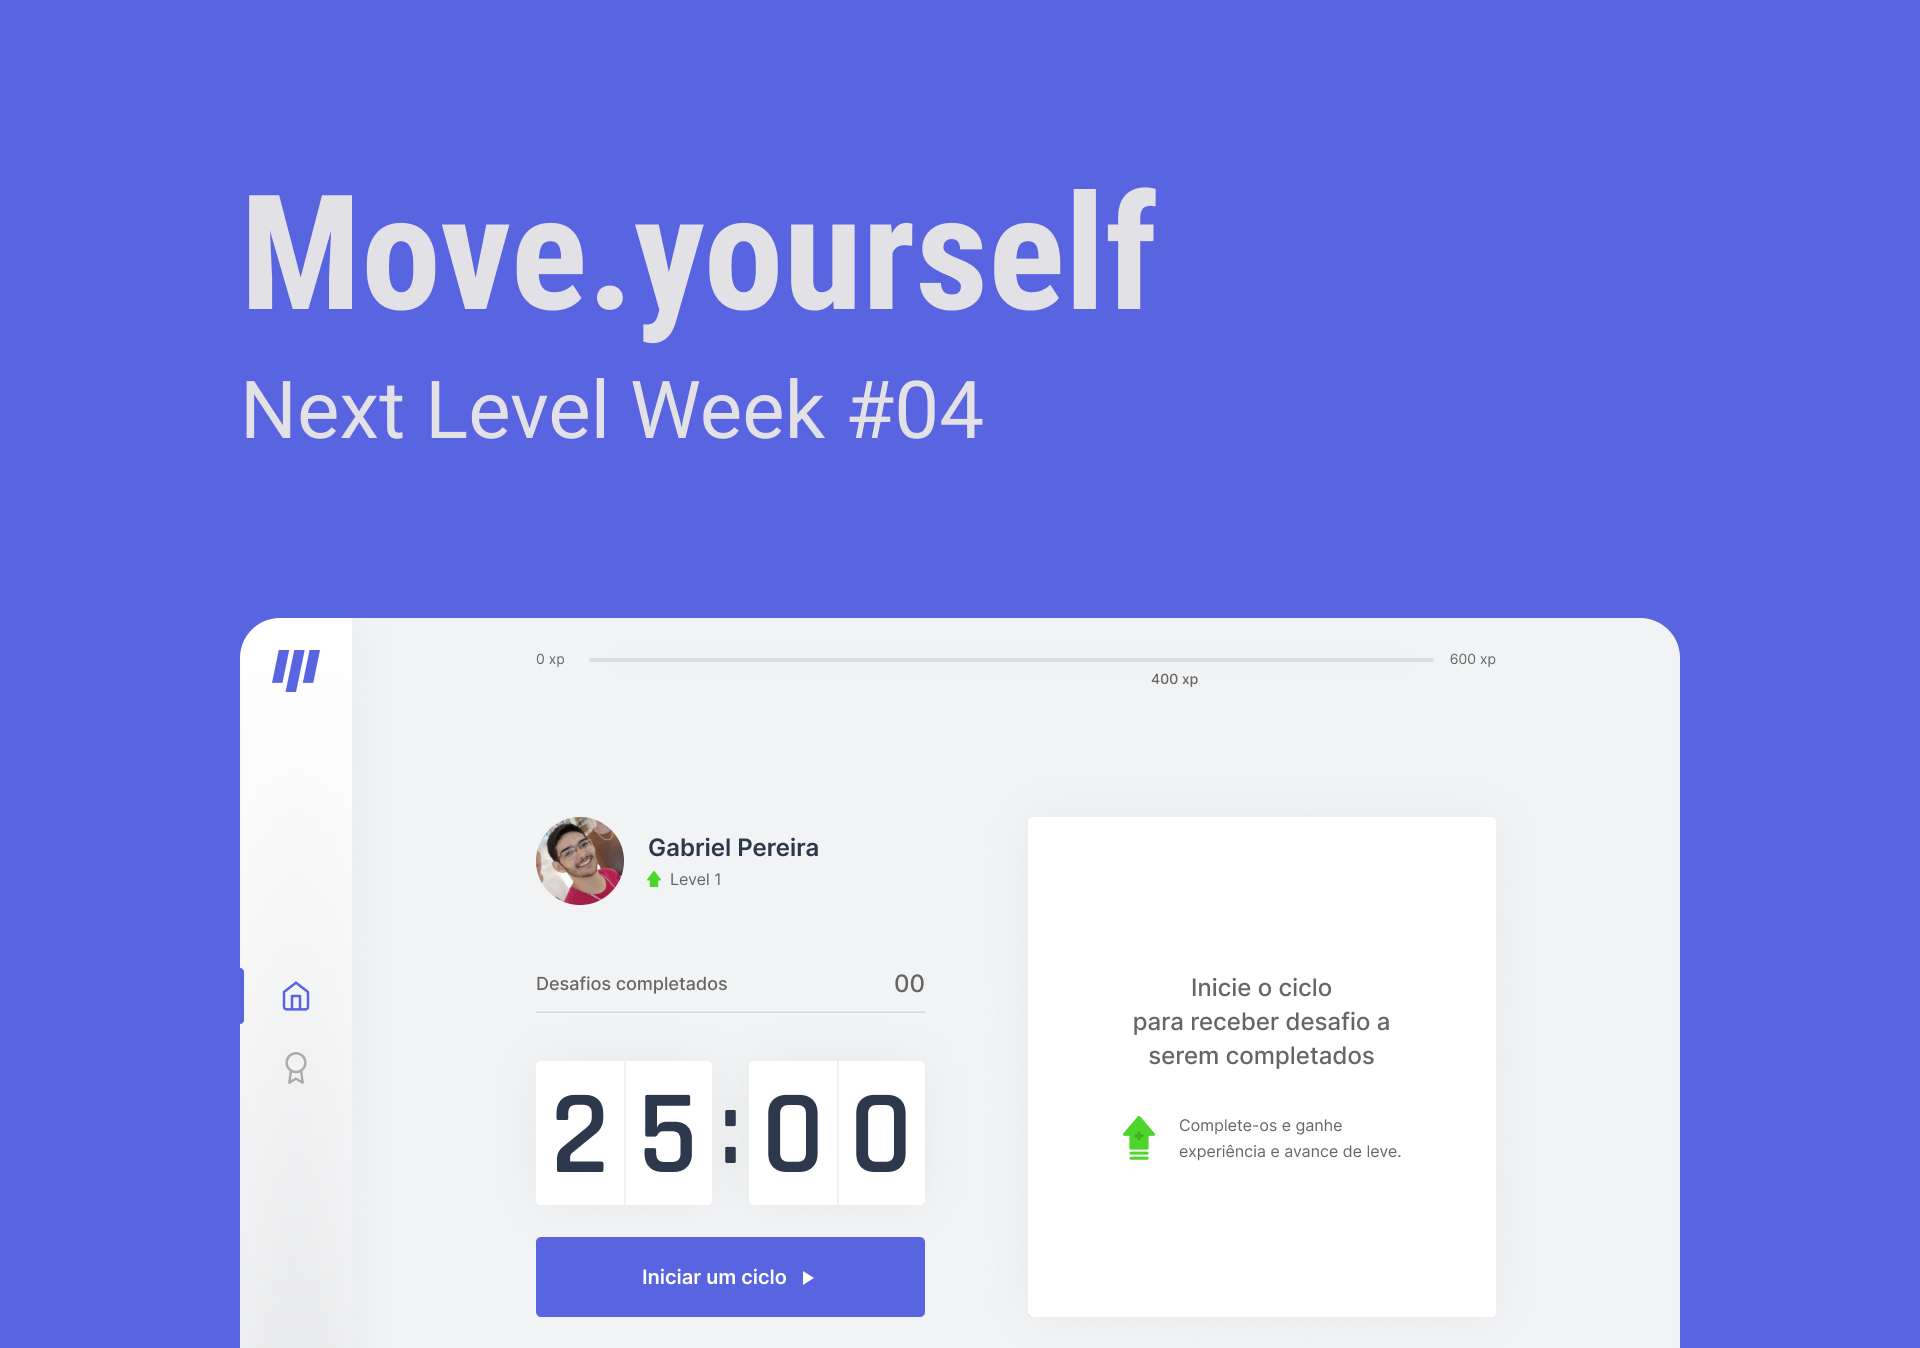
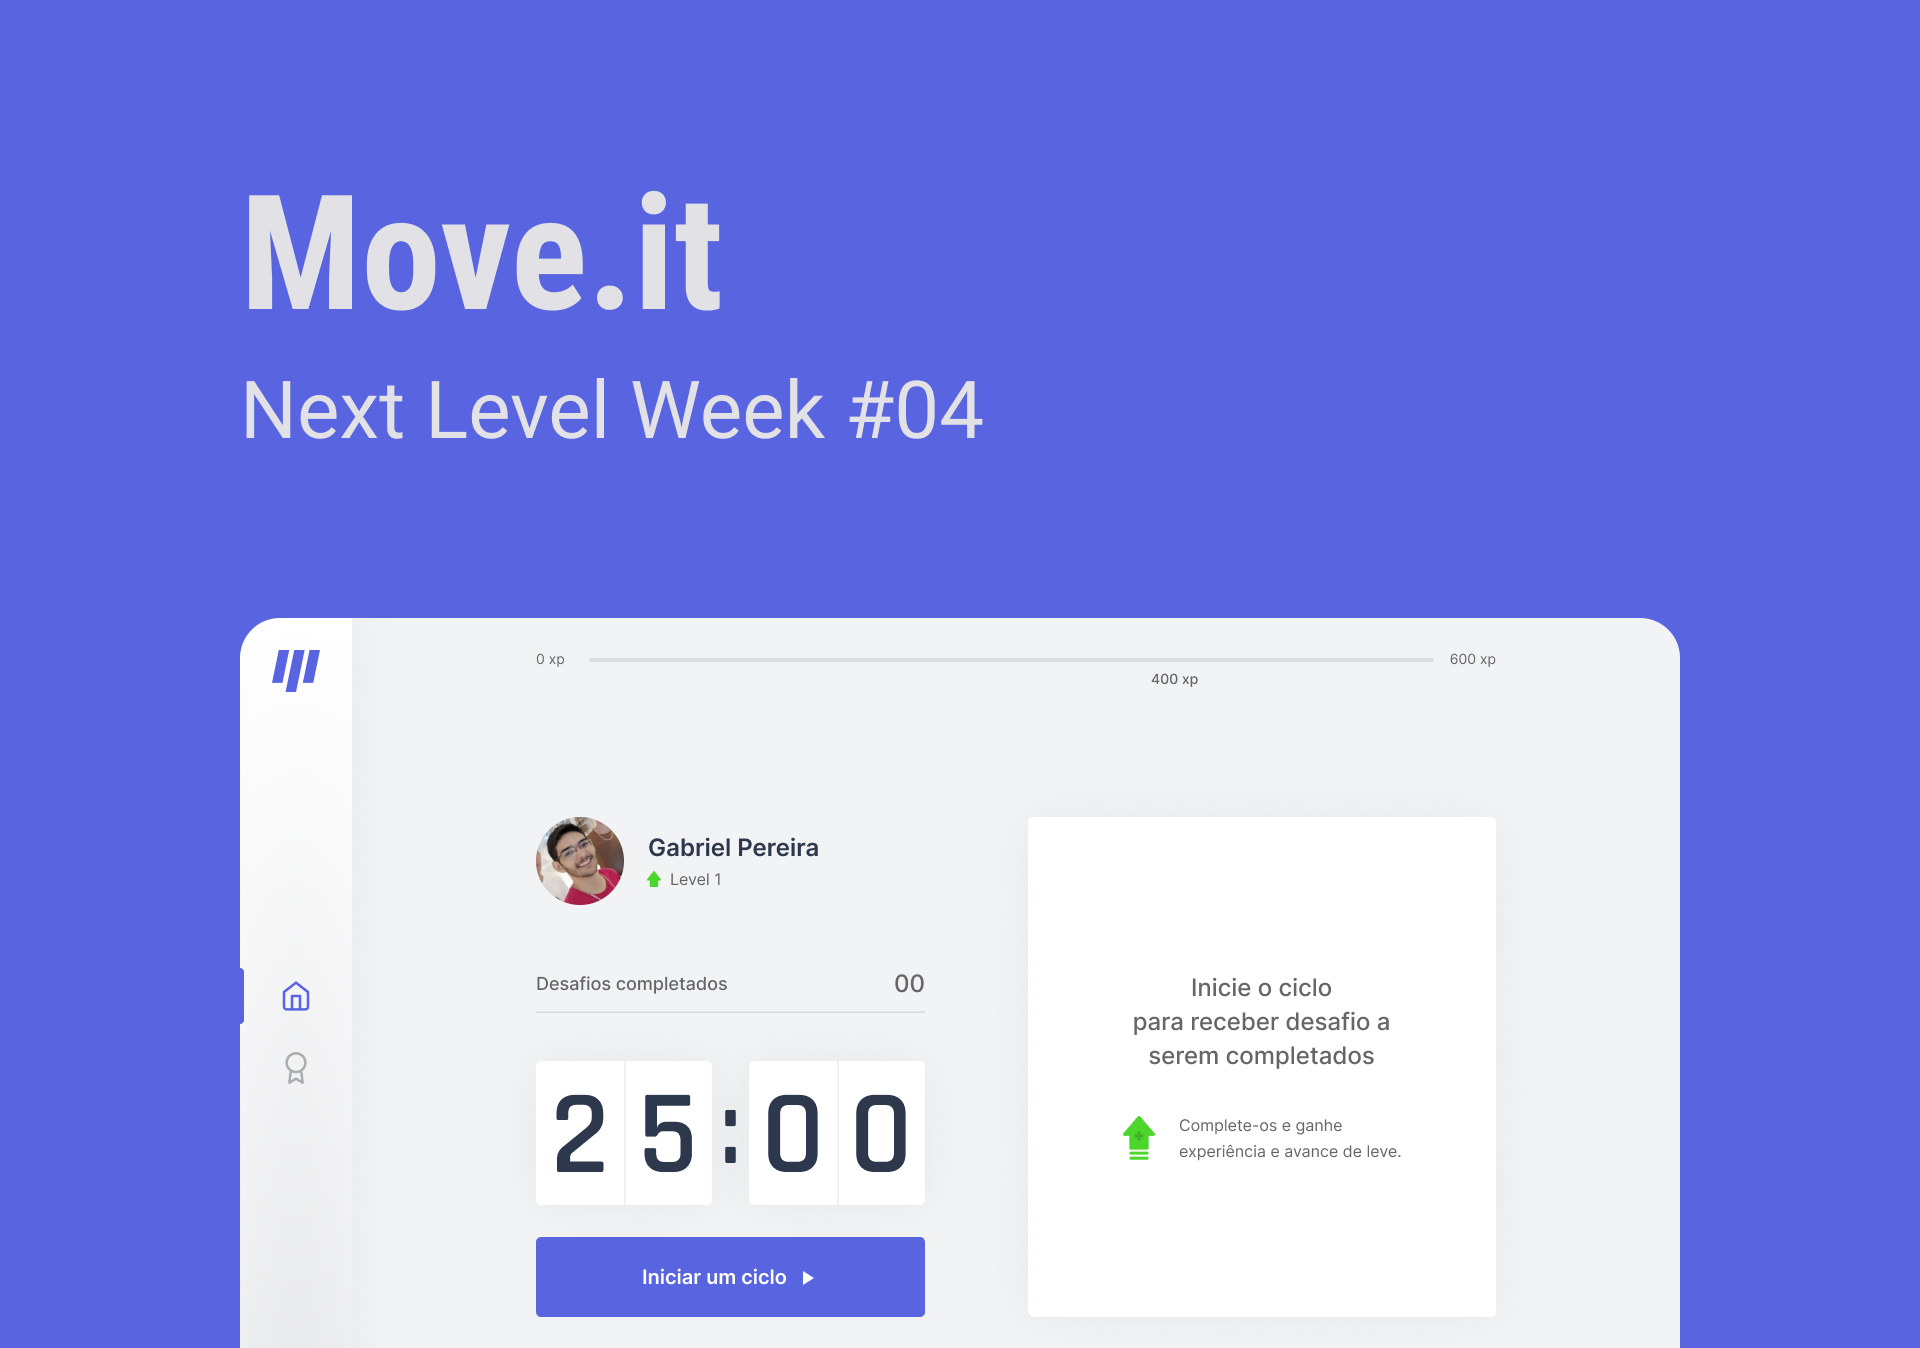
ajustes no readme

Changed region(s): [[0.3125, 0.1246, 0.625, 0.2493], [0.3125, 0.1246, 0.3438, 0.1558]]

diff --git a/README.md b/README.md
@@ -1,30 +1,29 @@
 <h2 align="center">
-  <img alt="Move-Yourself" title="#Move-Yourself" src=".github/logo-full.svg"/>
+  <img alt="Move-it" title="#Move-it" src=".github/logo-full.svg"/>
 </h2>
   
 <p align="center">
-  <img alt="GitHub language count" src="https://img.shields.io/github/languages/count/Gabrielpdev/Move-Yourself?color=%2304D361">
+  <img alt="GitHub language count" src="https://img.shields.io/github/languages/count/Gabrielpdev/Move-it?color=%2304D361">
 
-  <img alt="Repository size" src="https://img.shields.io/github/repo-size/Gabrielpdev/Move-Yourself">
-
+  <img alt="Repository size" src="https://img.shields.io/github/repo-size/Gabrielpdev/Move-it">
   	
   <a href="https://www.linkedin.com/in/gabriel-pereira-oliveira-78b1801ab/">
     <img alt="Made by Gabrielpdev" src="https://img.shields.io/badge/made%20by-Gabrielpdev-%2304D361">
   </a>
-	
-  
-  <a href="https://github.com/Gabrielpdev/Move-Yourself/commits/master">
-    <img alt="GitHub last commit" src="https://img.shields.io/github/last-commit/Gabrielpdev/Move-Yourself">
+	  
+  <a href="https://github.com/Gabrielpdev/Move-it/commits/master">
+    <img alt="GitHub last commit" src="https://img.shields.io/github/last-commit/Gabrielpdev/Move-it">
   </a>
 
   <img alt="License" src="https://img.shields.io/badge/license-MIT-brightgreen">
-   <a href="https://github.com/Gabrielpdev/Move-Yourself/stargazers">
-    <img alt="Stargazers" src="https://img.shields.io/github/stars/Gabrielpdev/Move-Yourself?style=social">
+  
+  <a href="https://github.com/Gabrielpdev/Move-it/stargazers">
+    <img alt="Stargazers" src="https://img.shields.io/github/stars/Gabrielpdev/Move-it?style=social">
   </a>
 </p>
 
 <h2 align="center">
-    <img alt="Move-Yourself" title="#Move-Yourself" src=".github/Capa.png" width="350px" />
+  <img alt="Move-it" title="#Move-it" src=".github/Capa.png" width="350px" />
 </h2>
 
 
@@ -39,7 +38,7 @@
 
 ## 🧐 Sobre <a name = "about"></a>
 
-Move-Yourself é uma Aplicação feita durante a **NWL 4.0** oferecido pela [Rocketseat] :rocket:.<br/> 
+Move.it é uma Aplicação feita durante a **NWL 4.0** oferecido pela [Rocketseat] :rocket:.<br/> 
 A aplicação visa ajudar pessoas que ficam muito tempo na frente do computador e se esquecem de tempo em tempo
 se alongar. Usando do método de Pomodoro, lembrando o usuário a cada período de tempo realizar uma atividade
 que ao ser realizada, o usuário ganha experiência, subindo seu level<br/> 
@@ -47,13 +46,12 @@ que ao ser realizada, o usuário ganha experiência, subindo seu level<br/>
 
 <span align="center">
 	<h2>Demo</h2>
-  <a href="https://move-yourself-gabrielpdev.vercel.app/">Link</a>
+  <a href="https://Move-it-gabrielpdev.vercel.app/">Link</a>
 </span>
-
 
 ## 🏁 Iniciando <a name = "getting_started"></a>
 
-Instruções de como acessar as rotas e instalação.
+Instruções de como instalar a aplicação na sua máquina.
 
 ### ⚒ Instalando <a name = "installing"></a>
 
